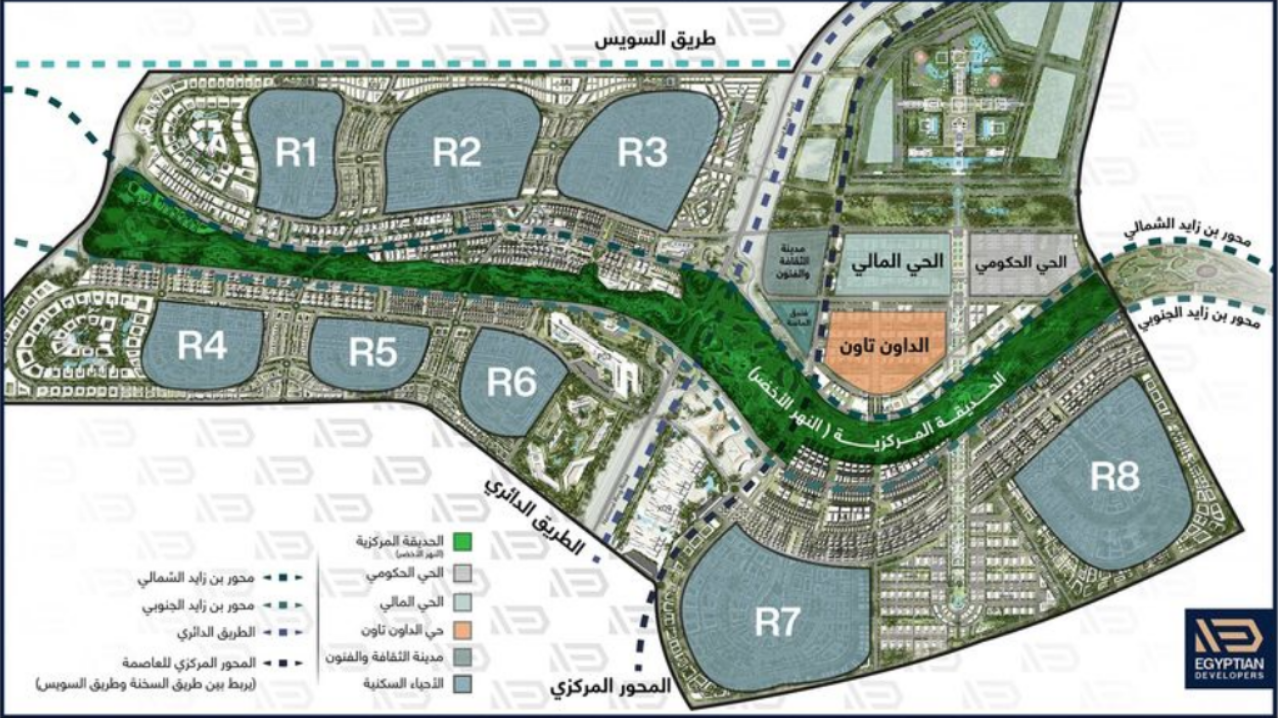
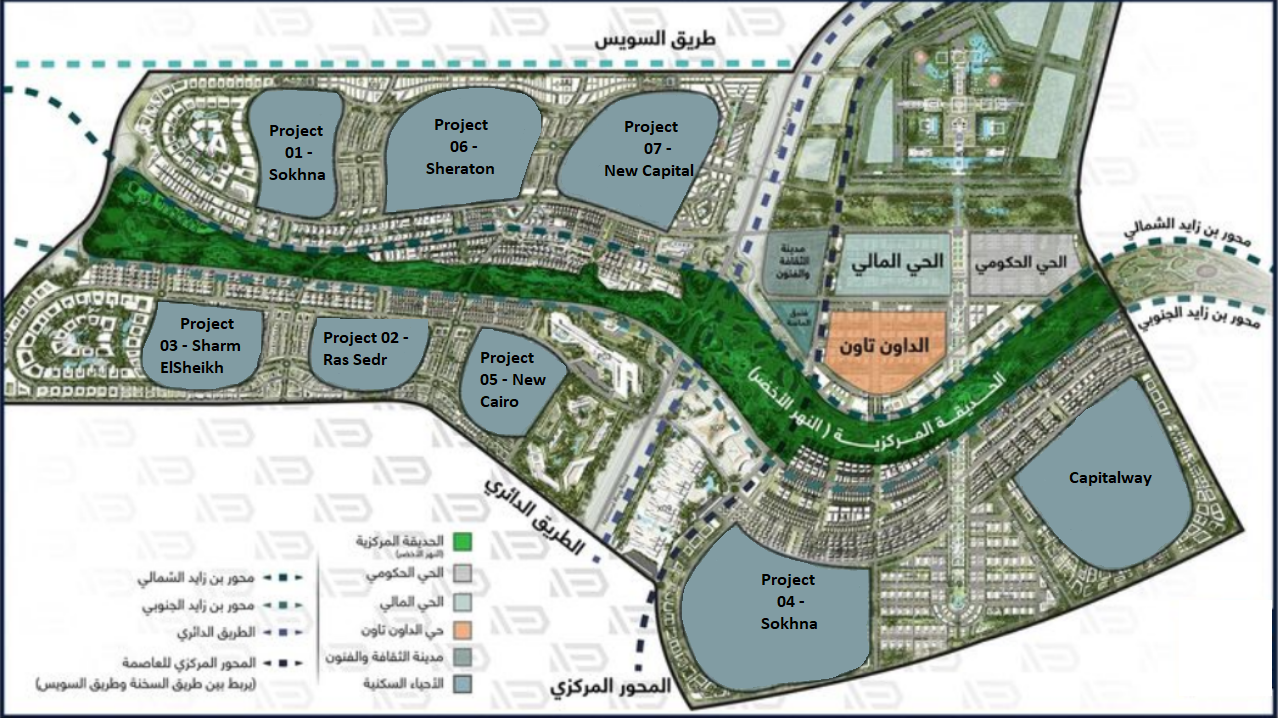
Finish task

diff --git a/index.html b/index.html
@@ -1,23 +1,16 @@
 <!DOCTYPE html>
 <html>
-  <head>
-
-  </head>
   <body>
-
     <img src="NewCairo.PNG" usemap="#image-map">
-
     <map name="image-map">
-        <area target="_blank" alt="R1" title="R1" href="https://www.salesforce.com/" coords="246,117,251,96,265,89,324,89,338,98,341,115,334,134,331,153,334,172,334,191,327,210,312,219,293,214,272,210,253,207,260,160,251,136,249,127" shape="poly">
-        <area target="_blank" alt="R2" title="R2" href="https://cloudstick.io/" coords="393,124,412,103,433,91,454,86,478,86,497,86,516,91,533,101,540,113,537,129,530,146,525,165,521,184,516,198,490,203,454,203,381,214,386,184,386,158,383,141" shape="poly">
-        <area target="_blank" alt="R3" title="R3" href="https://community.cloudstick.io/" coords="568,143,589,117,611,101,634,94,663,91,684,89,703,94,715,103,717,117,715,131,710,146,698,162,665,231,615,212,580,200,559,191,554,177" shape="poly">
-        <area target="_blank" alt="R4" title="R4" href="https://cloudstick.io/knowledgebase/" coords="154,299,260,310,258,358,249,377,230,384,199,391,173,386,149,381,140,367,142,344,149,317" shape="poly">
-        <area target="_blank" alt="R5" title="R5" href="https://cloudstick.io/docs/" coords="317,317,426,325,426,344,414,370,395,384,374,386,350,391,327,381,312,367,308,344" shape="poly">
-        <area target="_blank" alt="R6" title="R6" href="https://cloudstick.io/blog/" coords="478,327,525,339,554,355,566,370,523,434,490,434,473,422,462,408,459,389,466,360" shape="poly">
-        <area target="_blank" alt="R7" title="R7" href="https://api-doc.cloudstick.io/" coords="734,524,748,536,760,545,774,552,788,557,807,562,824,564,843,567,859,569,871,569,869,652,857,664,835,676,783,683,764,690,731,688,712,683,698,666,689,642,682,624,682,602,686,581,703,555" shape="poly">
-        <area target="_blank" alt="R8" title="R8" href="https://cloudstick.io/category/php/" coords="1011,479,1127,375,1148,394,1160,424,1188,488,1193,507,1188,524,1174,533,1162,548,1141,562,1119,567,1098,567,1079,564" shape="poly">
+        <area target="_blank" alt="Project 01 - Sokhna" title="20 Available Units" href="https://myrealestatecompany-dev-ed.lightning.force.com/lightning/r/Project__c/a000Y000008yJEdQAM/view" coords="246,117,251,96,265,89,324,89,338,98,341,115,334,134,331,153,334,172,334,191,327,210,312,219,293,214,272,210,253,207,260,160,251,136,249,127" shape="poly">
+        <area target="_blank" alt="Project 06 - Sheraton" title="30 Available Units" href="https://myrealestatecompany-dev-ed.lightning.force.com/lightning/r/Project__c/a000Y00000BjCT2QAN/view" coords="393,124,412,103,433,91,454,86,478,86,497,86,516,91,533,101,540,113,537,129,530,146,525,165,521,184,516,198,490,203,454,203,381,214,386,184,386,158,383,141" shape="poly">
+        <area target="_blank" alt="Project 07 - New Capital" title="35 Available Units" href="https://myrealestatecompany-dev-ed.lightning.force.com/lightning/r/Project__c/a000Y00000BjCT3QAN/view" coords="568,143,589,117,611,101,634,94,663,91,684,89,703,94,715,103,717,117,715,131,710,146,698,162,665,231,615,212,580,200,559,191,554,177" shape="poly">
+        <area target="_blank" alt="Project 03 - Sharm ElSheikh" title="40 Available Units" href="https://myrealestatecompany-dev-ed.lightning.force.com/lightning/r/Project__c/a000Y00000BjCT4QAN/view" coords="154,299,260,310,258,358,249,377,230,384,199,391,173,386,149,381,140,367,142,344,149,317" shape="poly">
+        <area target="_blank" alt="Project 02 - Ras Sedr" title="50 Available Units" href="https://myrealestatecompany-dev-ed.lightning.force.com/lightning/r/Project__c/a000Y00000BjCT5QAN/view" coords="317,317,426,325,426,344,414,370,395,384,374,386,350,391,327,381,312,367,308,344" shape="poly">
+        <area target="_blank" alt="Project 05 - New Cairo" title="55 Available Units" href="https://myrealestatecompany-dev-ed.lightning.force.com/lightning/r/Project__c/a000Y00000BjCT6QAN/view" coords="478,327,525,339,554,355,566,370,523,434,490,434,473,422,462,408,459,389,466,360" shape="poly">
+        <area target="_blank" alt="Project 04 - Sokhna" title="60 Available Units" href="https://myrealestatecompany-dev-ed.lightning.force.com/lightning/r/Project__c/a000Y00000BjCT7QAN/view" coords="734,524,748,536,760,545,774,552,788,557,807,562,824,564,843,567,859,569,871,569,869,652,857,664,835,676,783,683,764,690,731,688,712,683,698,666,689,642,682,624,682,602,686,581,703,555" shape="poly">
+        <area target="_blank" alt="Capitalway" title="80 Available Units" href="https://myrealestatecompany-dev-ed.lightning.force.com/lightning/r/Project__c/a001n00001W4gNQAAZ/view" coords="1011,479,1127,375,1148,394,1160,424,1188,488,1193,507,1188,524,1174,533,1162,548,1141,562,1119,567,1098,567,1079,564" shape="poly">
     </map>
-
-
 </body>
 </html>
